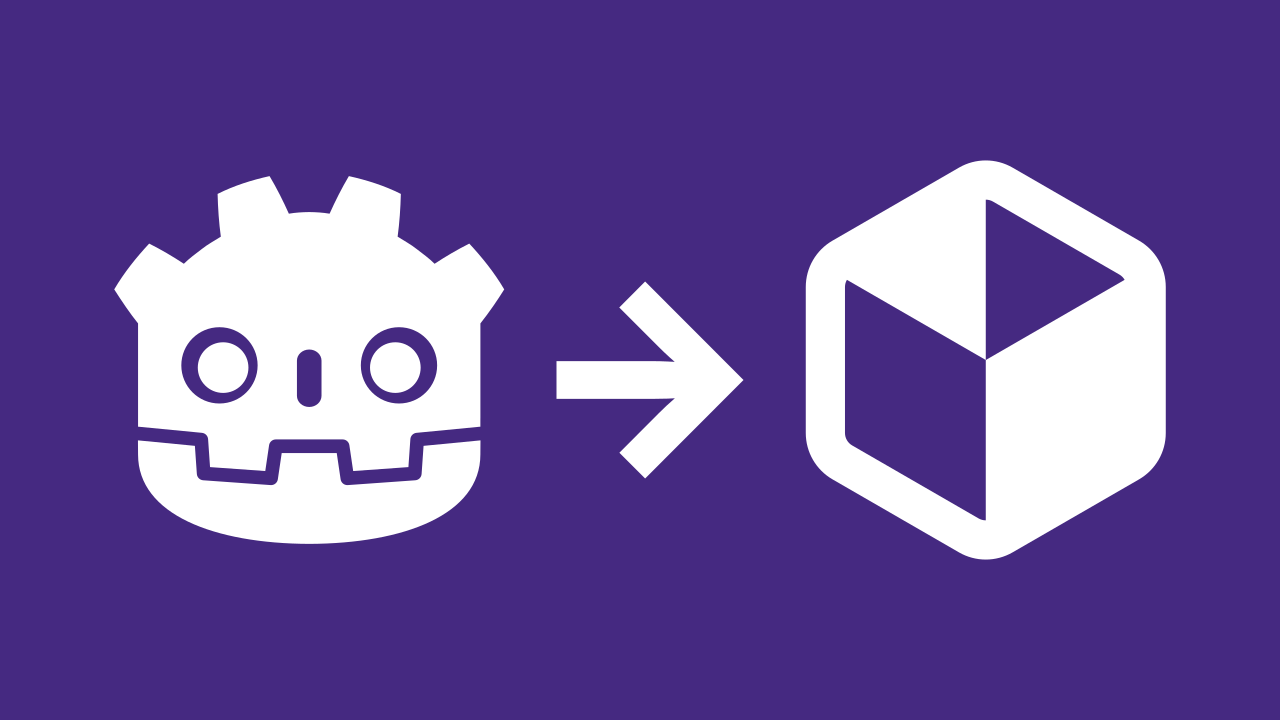
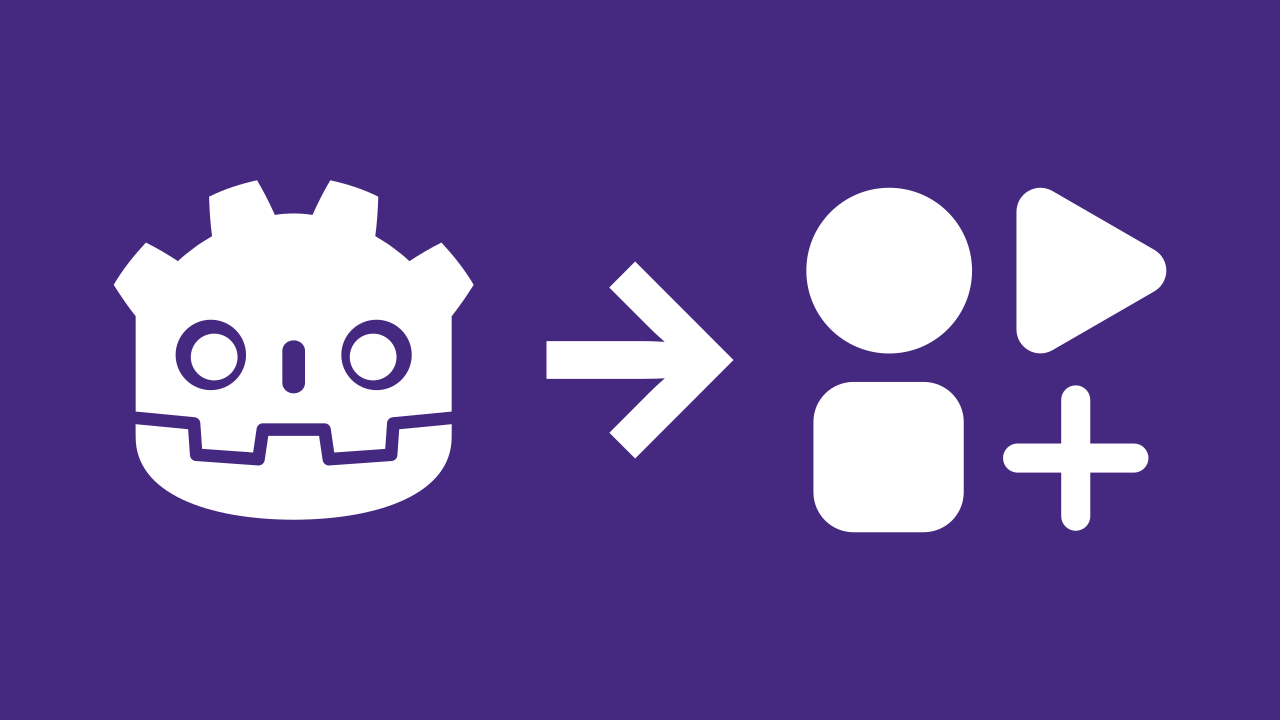
Blog: update Godot card

diff --git a/_posts/2024-12-10-publish-godot-engine-game-flathub-flatpak.md b/_posts/2024-12-10-publish-godot-engine-game-flathub-flatpak.md
@@ -6,6 +6,8 @@ updated: 2024-12-10
 image: /images/blog/publish-godot-engine-game-flathub-flatpak/card.png
 ---
 
+![Illustration with the Godot Engine logo, then an arrow pointing to the Flathub logo]({{ page.image }}){: .card }
+
 If you follow me on the fediverse ([{{ site.mastodon.handle }}]({{ site.mastodon.url }})), you may have seen me recently [gushing about ROTA](https://mastodon.blaede.family/@cassidy/113604784700813257), a video game I recently discovered. Besides the absolutely charming design and ridiculously satisfying gameplay, the game itself is _open source_, meaning the developer has published the game's underlying code out to the world for anyone to see, learn from, and adapt.
 
 As someone passionate about the Linux desktop ecosystem broadly and Flathub as an app store specifically, I was excited by the possibility of helping to get ROTA onto Flathub so more people could play it—plus, such a high-quality game being on Flathub helps the reputation and image of Flathub itself. So I kicked off a personal project (with the support of my employer¹) to get it onto Flathub—and I learned _a lot_. As a result, here's how I recommend publishing your Godot Engine game to Flathub.
